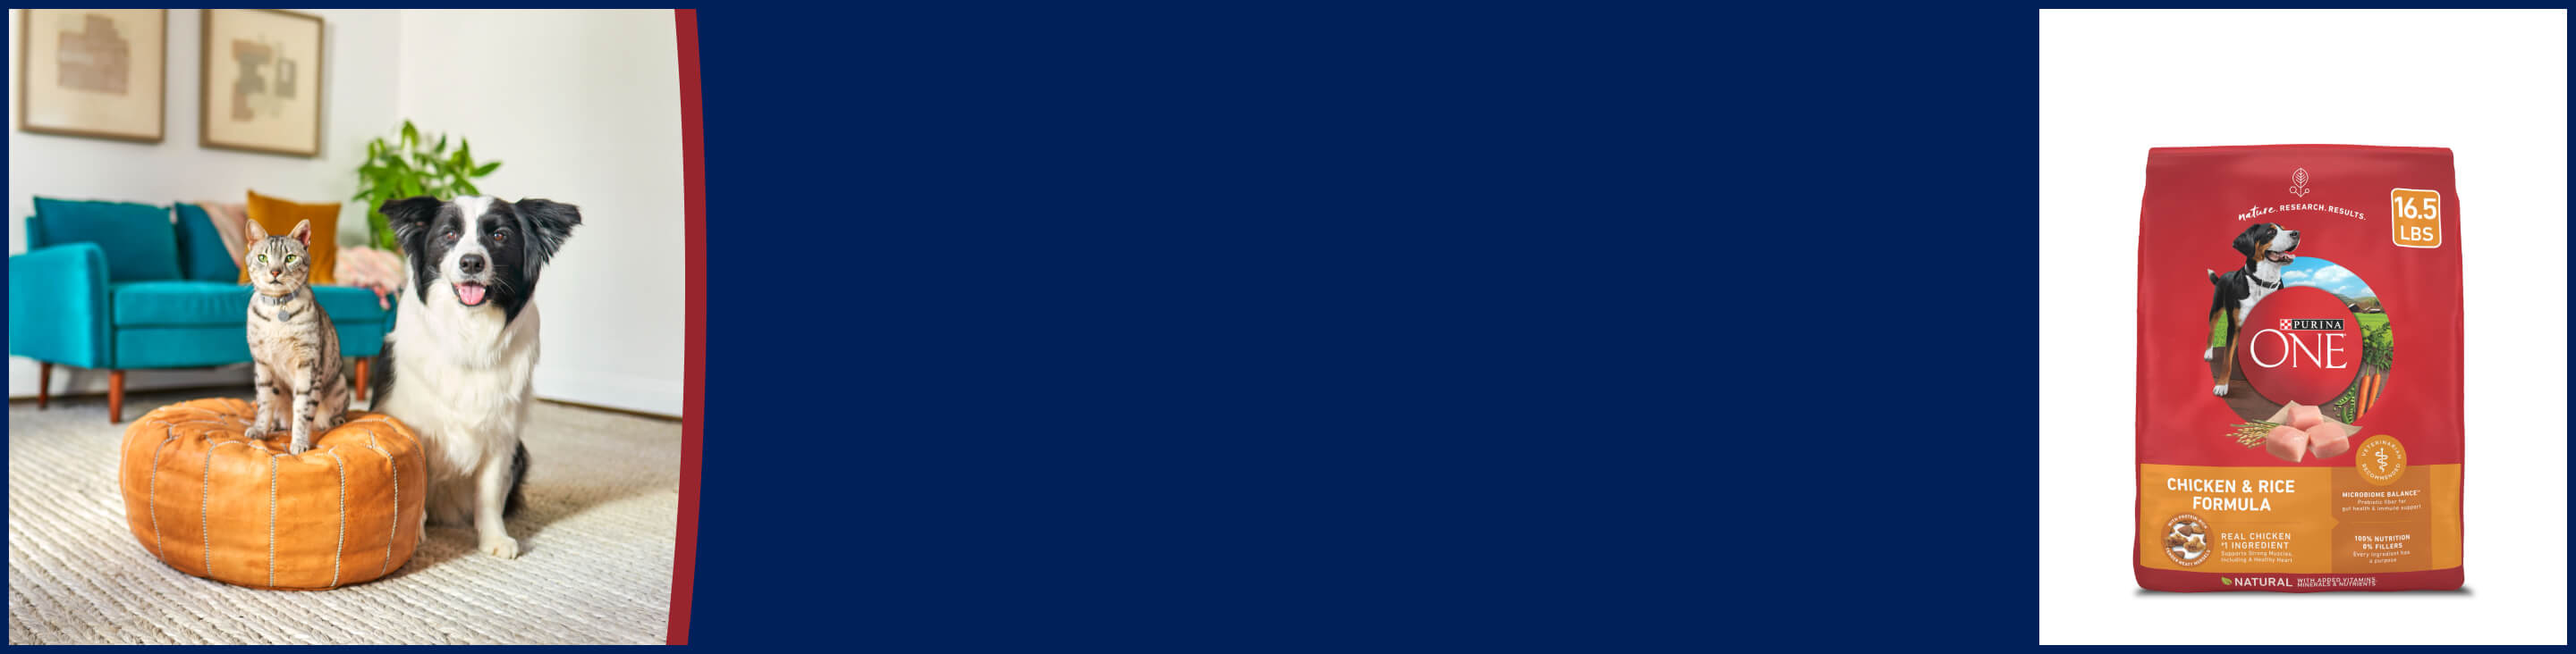
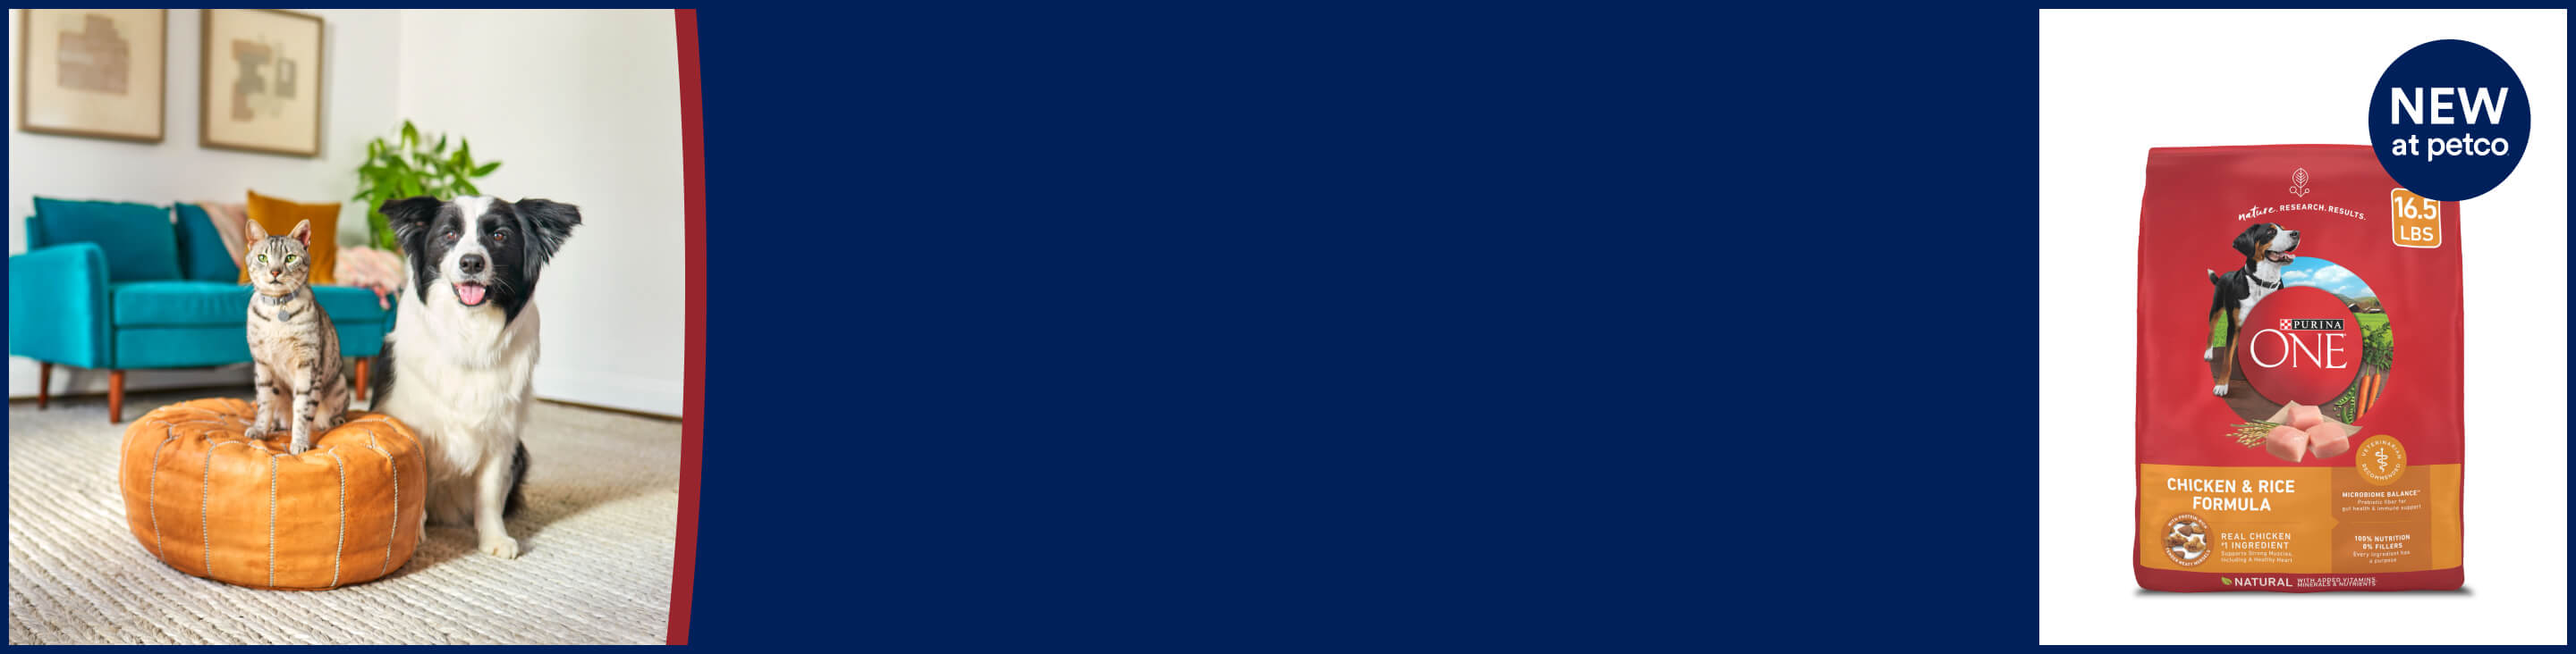
Product shots added, Updated the responsive design

Changed region(s): [[0.9062, 0.0601, 1.0, 0.3306]]

diff --git a/DES-2165_Purina_PurinaONE_Spotlight-BP/index.html b/DES-2165_Purina_PurinaONE_Spotlight-BP/index.html
@@ -41,9 +41,6 @@
                         </div>
                     </div>
                 </div>
-
-                <img class="citrusPurinaONE__petcoBadge" src="image/citrusPurinaONE_newAtPetco-badge.png"
-                    alt="New at Petco badge.">
             </div>
         </section>
         <!-- End hero banner -->
@@ -133,7 +130,7 @@
                                                 manual_cm_sp="sponsoredbrandpage:purinaone:productscroller:1:purinaonetendercutsingravybeefandbarleyentreeinwetdogfoodgravy13oz:shopnow"
                                                 onclick="clickTrackLink(this);">
                                                 <div class="citrusPurinaONE-tab-cardImg">
-                                                    <img src="#" alt="" />
+                                                    <img src="image/citrus_purina-one_product1.jpg" alt="" />
                                                 </div>
                                                 <div class="citrusPurinaONE-tab-cardBody">
                                                     <p>
@@ -156,7 +153,7 @@
                                                 manual_cm_sp="sponsoredbrandpage:purinaone:productscroller:2:purinaonetendercutsingravychickenandbrownricewetdogfood13oz:shopnow"
                                                 onclick="clickTrackLink(this);">
                                                 <div class="citrusPurinaONE-tab-cardImg">
-                                                    <img src="#" alt="" />
+                                                    <img src="image/citrus_purina-one_product2.jpg" alt="" />
                                                 </div>
                                                 <div class="citrusPurinaONE-tab-cardBody">
                                                     <p>
@@ -179,7 +176,7 @@
                                                 manual_cm_sp="sponsoredbrandpage:purinaone:productscroller:3:purinaonenaturalsmartblendtendercutsingravyhighproteinwetdogfoodvarietypack13ozcountof6:shopnow"
                                                 onclick="clickTrackLink(this);">
                                                 <div class="citrusPurinaONE-tab-cardImg">
-                                                    <img src="#" alt="" />
+                                                    <img src="image/citrus_purina-one_product3.jpg" alt="" />
                                                 </div>
                                                 <div class="citrusPurinaONE-tab-cardBody">
                                                     <p>
@@ -202,7 +199,7 @@
                                                 manual_cm_sp="sponsoredbrandpage:purinaone:productscroller:4:purinaonechickenandriceformuladrydogfood311lbs:shopnow"
                                                 onclick="clickTrackLink(this);">
                                                 <div class="citrusPurinaONE-tab-cardImg">
-                                                    <img src="#" alt="" />
+                                                    <img src="image/citrus_purina-one_product4.jpg" alt="" />
                                                 </div>
                                                 <div class="citrusPurinaONE-tab-cardBody">
                                                     <p>
@@ -224,7 +221,7 @@
                                                 manual_cm_sp="sponsoredbrandpage:purinaone:productscroller:5:purinaonechickenandriceformuladrydogfood165lbs:shopnow"
                                                 onclick="clickTrackLink(this);">
                                                 <div class="citrusPurinaONE-tab-cardImg">
-                                                    <img src="#" alt="" />
+                                                    <img src="image/citrus_purina-one_product5.jpg" alt="" />
                                                 </div>
                                                 <div class="citrusPurinaONE-tab-cardBody">
                                                     <p>
@@ -246,7 +243,7 @@
                                                 manual_cm_sp="sponsoredbrandpage:purinaone:productscroller:6:purinaonepluslargebreedformuladrypuppyfood311lbs:shopnow"
                                                 onclick="clickTrackLink(this);">
                                                 <div class="citrusPurinaONE-tab-cardImg">
-                                                    <img src="#" alt="" />
+                                                    <img src="image/citrus_purina-one_product6.jpg" alt="" />
                                                 </div>
                                                 <div class="citrusPurinaONE-tab-cardBody">
                                                     <p>
@@ -268,7 +265,7 @@
                                                 manual_cm_sp="sponsoredbrandpage:purinaone:productscroller:7:purinaonenaturalhighproteingrainfreeoceanwhitefishrecipepatewetcatfood3oz:shopnow"
                                                 onclick="clickTrackLink(this);">
                                                 <div class="citrusPurinaONE-tab-cardImg">
-                                                    <img src="#" alt="" />
+                                                    <img src="image/citrus_purina-one_product7.jpg" alt="" />
                                                 </div>
                                                 <div class="citrusPurinaONE-tab-cardBody">
                                                     <p>
@@ -291,7 +288,7 @@
                                                 manual_cm_sp="sponsoredbrandpage:purinaone:productscroller:8:purinaonenaturalhighproteingrainfreechickenrecipepatewetcatfood3oz:shopnow"
                                                 onclick="clickTrackLink(this);">
                                                 <div class="citrusPurinaONE-tab-cardImg">
-                                                    <img src="#" alt="" />
+                                                    <img src="image/citrus_purina-one_product8.jpg" alt="" />
                                                 </div>
                                                 <div class="citrusPurinaONE-tab-cardBody">
                                                     <p>
@@ -314,7 +311,7 @@
                                                 manual_cm_sp="sponsoredbrandpage:purinaone:productscroller:9:purinaonenaturalsensitivestomachskinnaturaldrycatfood35lbs:shopnow"
                                                 onclick="clickTrackLink(this);">
                                                 <div class="citrusPurinaONE-tab-cardImg">
-                                                    <img src="#" alt="" />
+                                                    <img src="image/citrus_purina-one_product9.jpg" alt="" />
                                                 </div>
                                                 <div class="citrusPurinaONE-tab-cardBody">
                                                     <p>
@@ -337,7 +334,7 @@
                                                 manual_cm_sp="sponsoredbrandpage:purinaone:productscroller:10:purinaonenaturallowfatweightcontrolindoordrycatfood35lbs:shopnow"
                                                 onclick="clickTrackLink(this);">
                                                 <div class="citrusPurinaONE-tab-cardImg">
-                                                    <img src="#" alt="" />
+                                                    <img src="image/citrus_purina-one_product10.jpg" alt="" />
                                                 </div>
                                                 <div class="citrusPurinaONE-tab-cardBody">
                                                     <p>
@@ -370,7 +367,10 @@
                                                             <p>SHOP ALL</p>
                                                         </div>
                                                         <div class="citrusPurinaONE__groupCtaArrow">
-                                                            <p>&#8594;</p>
+                                                            <!-- <p>&#8594;</p> -->
+                                                            <svg xmlns="http://www.w3.org/2000/svg" width="40" height="26" viewBox="0 0 40 26" fill="none">
+                                                                <path d="M1 13H38.5M38.5 13L26.5 25M38.5 13L26.5 1" stroke="#001952" stroke-width="2" stroke-linecap="round"/>
+                                                                </svg>
                                                         </div>
                                                     </button>
                                                 </div>

diff --git a/DES-2165_Purina_PurinaONE_Spotlight-BP/style.css b/DES-2165_Purina_PurinaONE_Spotlight-BP/style.css
@@ -81,7 +81,7 @@ body {
   padding-right: 30px !important;
 }
 p.citrusPurinaONE__subhead {
-  font-family: "PetcoCircular-Regular";
+  font-family: "PetcoCircular-Regular", arial !important;
   font-size: 18px;
   line-height: normal;
   font-weight: 400;
@@ -132,6 +132,7 @@ p.citrusPurinaONE__subhead {
   font-family: "PetcoCircular-Black", arial !important;
   font-weight: 700;
   margin: 0 auto;
+  font-size: 16px;
 }
 
 @media screen and (max-width: 767px) {
@@ -161,6 +162,10 @@ p.citrusPurinaONE__subhead {
   .citrusPurinaONE__sectionTitle {
     padding-left: 0 !important;
     padding-right: 0 !important;
+    max-width: 330px;
+  }
+  .citrusPurinaONE__sectionTitle{
+    max-width: 290px;
   }
 }
 
@@ -257,12 +262,12 @@ p.citrusPurinaONE__subhead {
   text-transform: uppercase;
 }
 
-.citrusPurinaONE__petcoBadge {
+/* .citrusPurinaONE__petcoBadge {
   width: 6% !important;
   position: absolute;
   right: 1%;
   top: 8%;
-}
+} */
 
 @media screen and (max-width: 1400px) {
   .citrusPurinaONE__heroCopy h1 {
@@ -386,13 +391,17 @@ p.citrusPurinaONE__subhead {
     text-transform: none;
   }
 
+  p.citrusPurinaONE__subhead{
+    font-size: 20px;
+  }
+/* 
   .citrusPurinaONE__petcoBadge {
     width: 15% !important;
     position: absolute;
     right: 21%;
     bottom: 20%;
     top: unset;
-  }
+  } */
 }
 
 @media all and (min-width: 476px) and (max-width: 768px) {
@@ -425,18 +434,18 @@ p.citrusPurinaONE__subhead {
 }
 
 @media screen and (max-width: 520px) {
-  .citrusPurinaONE__petcoBadge {
+  /* .citrusPurinaONE__petcoBadge {
     right: 10%;
     bottom: 22%;
-  }
+  } */
 }
 
 @media screen and (max-width: 425px) {
-  .citrusPurinaONE__petcoBadge {
+  /* .citrusPurinaONE__petcoBadge {
     width: 19% !important;
     right: 19%;
     bottom: 22%;
-  }
+  } */
 }
 
 /* product section three across */
@@ -658,7 +667,7 @@ p.citrusPurinaONE__subhead {
   -webkit-box-orient: vertical;
   max-height: 4em;
   /*standard size is 4em*/
-  font-weight: 500;
+  font-weight: 400;
 }
 
 .citrusPurinaONE__productCTA {
@@ -672,6 +681,11 @@ p.citrusPurinaONE__subhead {
   line-height: 22px;
   font-weight: 700;
   cursor: pointer;
+}
+
+.citrusPurinaONE__productCTA svg{
+  max-width: 37.5px;
+  padding: 0 0 7px;
 }
 
 .citrusPurinaONE__Products {
@@ -738,6 +752,7 @@ p.citrusPurinaONE__subhead {
   color: #001952;
   margin-top: 0;
   font-weight: 700;
+  font-size: 20px;
 }
 
 .citrusPurinaONE__groupCtaArrow p {
